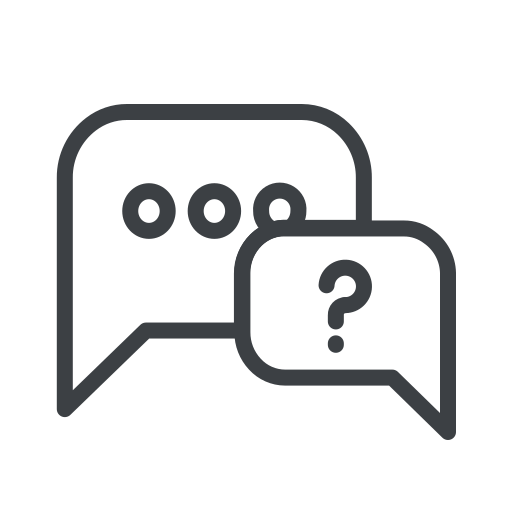
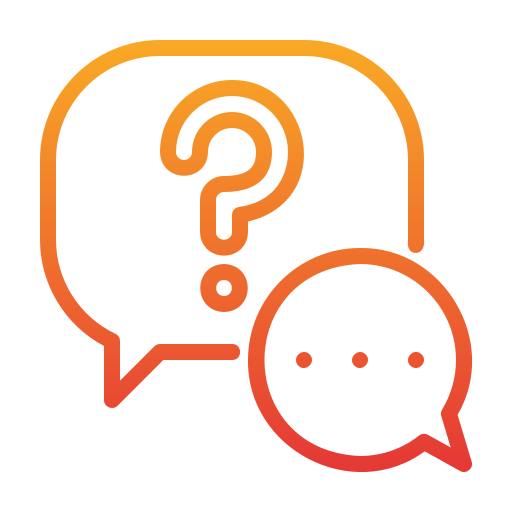
Add Focus Expert Panel button to editor title bar
Introduces a new command and UI button to quickly focus the most recent active expert panel from the editor title bar. Updates the panel registry to track panel creation times and manage context for button visibility. Documentation and icons are updated to reflect the new feature.

Changed region(s): [[0.0625, 0.0625, 0.9375, 0.9375]]

diff --git a/src/utils/panelRegistry.ts b/src/utils/panelRegistry.ts
@@ -7,12 +7,19 @@ type ToolType = 'askExpert' | 'selectFromList' | 'reviewCode' | 'questionnaire';
 interface RegisteredPanel {
     panel: vscode.WebviewPanel;
     toolType: ToolType;
+    createdAt: number;
 }
 
 class PanelRegistryService {
     private panels: Map<string, RegisteredPanel> = new Map();
     private configListener: vscode.Disposable | undefined;
     private idCounter = 0;
+    private onPanelCountChangedEmitter = new vscode.EventEmitter<number>();
+    
+    /**
+     * Event fired when the number of active panels changes
+     */
+    readonly onPanelCountChanged = this.onPanelCountChangedEmitter.event;
 
     /**
      * Initialize the registry with configuration change listener
@@ -24,6 +31,7 @@ class PanelRegistryService {
             }
         });
         context.subscriptions.push(this.configListener);
+        context.subscriptions.push(this.onPanelCountChangedEmitter);
     }
 
     /**
@@ -31,13 +39,72 @@ class PanelRegistryService {
      */
     register(panel: vscode.WebviewPanel, toolType: ToolType): string {
         const id = `panel-${++this.idCounter}`;
-        this.panels.set(id, { panel, toolType });
+        this.panels.set(id, { panel, toolType, createdAt: Date.now() });
+        
+        // Update context for showing/hiding the button
+        this.updateHasActivePanelContext();
 
         panel.onDidDispose(() => {
             this.panels.delete(id);
+            this.updateHasActivePanelContext();
         });
 
         return id;
+    }
+    
+    /**
+     * Get the count of active panels
+     */
+    getActivePanelCount(): number {
+        return this.panels.size;
+    }
+    
+    /**
+     * Check if there are any active panels
+     */
+    hasActivePanels(): boolean {
+        return this.panels.size > 0;
+    }
+    
+    /**
+     * Focus the most recent active panel
+     * Returns true if a panel was focused
+     */
+    focusMostRecentPanel(): boolean {
+        if (this.panels.size === 0) {
+            return false;
+        }
+        
+        // Find the most recently created panel
+        let mostRecent: RegisteredPanel | null = null;
+        let mostRecentTime = 0;
+        
+        this.panels.forEach((registered) => {
+            if (registered.createdAt > mostRecentTime) {
+                mostRecentTime = registered.createdAt;
+                mostRecent = registered;
+            }
+        });
+        
+        if (mostRecent) {
+            try {
+                (mostRecent as RegisteredPanel).panel.reveal(vscode.ViewColumn.Active);
+                return true;
+            } catch (error) {
+                // Panel might be disposed
+                return false;
+            }
+        }
+        
+        return false;
+    }
+    
+    /**
+     * Update the context key for showing/hiding editor title button
+     */
+    private updateHasActivePanelContext(): void {
+        vscode.commands.executeCommand('setContext', 'askMeCopilot.hasActivePanel', this.panels.size > 0);
+        this.onPanelCountChangedEmitter.fire(this.panels.size);
     }
 
     /**

diff --git a/src/extension.ts b/src/extension.ts
@@ -67,6 +67,13 @@ export function activate(context: vscode.ExtensionContext) {
     
     // Register commands
     context.subscriptions.push(
+        vscode.commands.registerCommand('askMeCopilot.focusExpertPanel', () => {
+            const focused = panelRegistry.focusMostRecentPanel();
+            if (!focused) {
+                vscode.window.showInformationMessage('No active Ask Me Copilot panel to focus');
+            }
+        }),
+        
         vscode.commands.registerCommand('askMeCopilot.showMetrics', () => {
             const metrics = analytics.getMetrics();
             vscode.window.showInformationMessage(

diff --git a/README.md b/README.md
@@ -62,24 +62,33 @@ Copilot analyzes images from your project with compression support:
 
 ![Read Image Tool](docs/ImageReader.png)
 
-### � Questionnaire (v1.8.0)
+### 📋 Questionnaire (v1.8.0)
 
-Collect structured data via multi-field forms:
+Collect structured data via multi-field forms when Copilot needs multiple related pieces of information:
+
+![Questionnaire Form](docs/Form.png)
 
 **Field Types:**
-- **Text** - Single-line text input
-- **Textarea** - Multi-line text input
-- **Number** - Numeric input
-- **Checkbox** - Yes/No toggle
-- **Radio** - Single choice from options
-- **Select** - Dropdown selection
+- **Text** - Single-line text input (project name, file path, etc.)
+- **Textarea** - Multi-line text input (descriptions, comments, code snippets)
+- **Number** - Numeric input with validation (port number, count, etc.)
+- **Checkbox** - Yes/No toggle (enable feature, use strict mode)
+- **Radio** - Single choice from options (pick one from list)
+- **Select** - Dropdown selection (choose from many options)
 
-**Features:**
-- **Conditional fields** - Show/hide fields based on other field values (`showWhen`)
-- **Sections** - Group related fields with titles and descriptions
-- **Additional comment** - Free-form text field at the bottom
+**Powerful Features:**
+- **Conditional fields** - Show/hide fields based on other field values using `showWhen`. For example, show "Strict Mode" options only when "Use TypeScript" is checked
+- **Field comments** - Each field has a "+ add comment" link allowing you to provide extra context or notes
+- **Sections** - Group related fields with titles and descriptions for better organization
+- **Required/Optional fields** - Mark fields as required to ensure Copilot gets all necessary information
 - **Attachments** - Add files/images to your response
 - **Templates** - Use response templates like in other tools
+
+**When Copilot uses it:**
+- Configuring a new project with multiple options
+- Setting up database schema with various properties
+- Gathering user preferences for code generation
+- Collecting feature requirements in structured format
 
 **Example call:**
 ```typescript
@@ -89,7 +98,7 @@ Collect structured data via multi-field forms:
     {
       title: "Basic Info",
       fields: [
-        { type: "text", name: "projectName", label: "Project Name" },
+        { type: "text", name: "projectName", label: "Project Name", required: true },
         { type: "checkbox", name: "useTypescript", label: "Use TypeScript?" },
         { 
           type: "radio", 
@@ -104,7 +113,17 @@ Collect structured data via multi-field forms:
 }
 ```
 
-### �📊 Expert Monitor Panel (v1.6.0)
+### 🤖 Focus Expert Panel Button (v1.8.4)
+
+A button in the editor title bar to quickly focus the active expert dialog:
+
+![Pin Button in Editor](docs/pinned.png)
+
+- **Appears only** when there's an active expert panel open
+- **One-click focus** - instantly switch to the expert dialog from any editor
+- **Custom robot icon** - easily recognizable in the editor title area
+
+### 📊 Expert Monitor Panel (v1.6.0)
 
 A **persistent panel** (next to Terminal) for real-time communication with Copilot:
 
